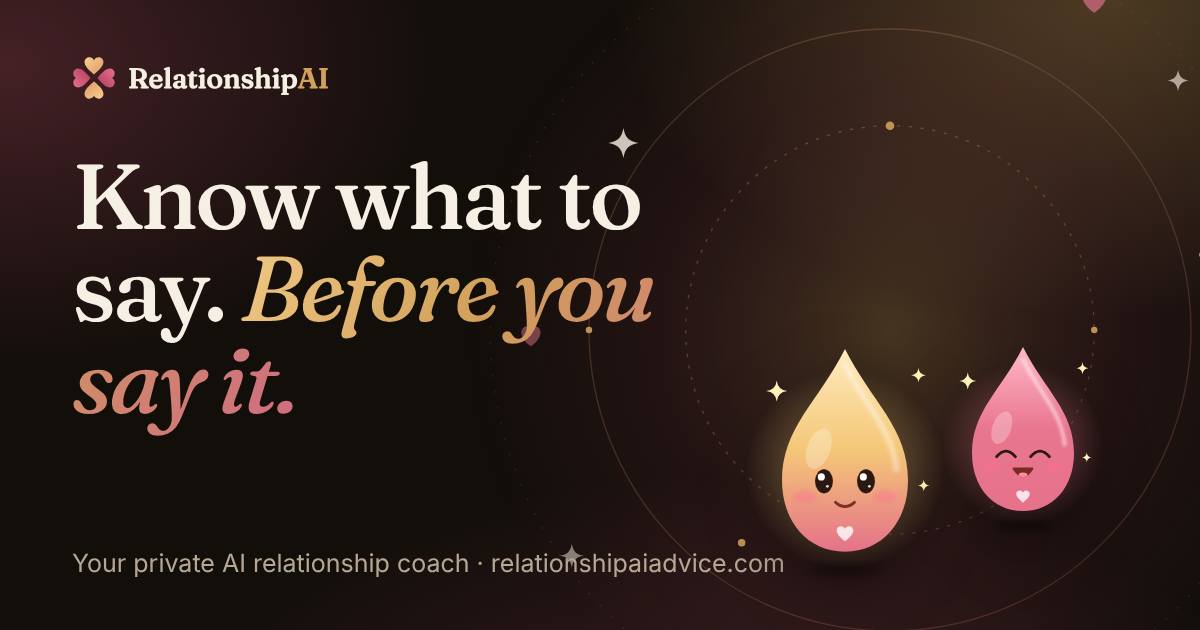
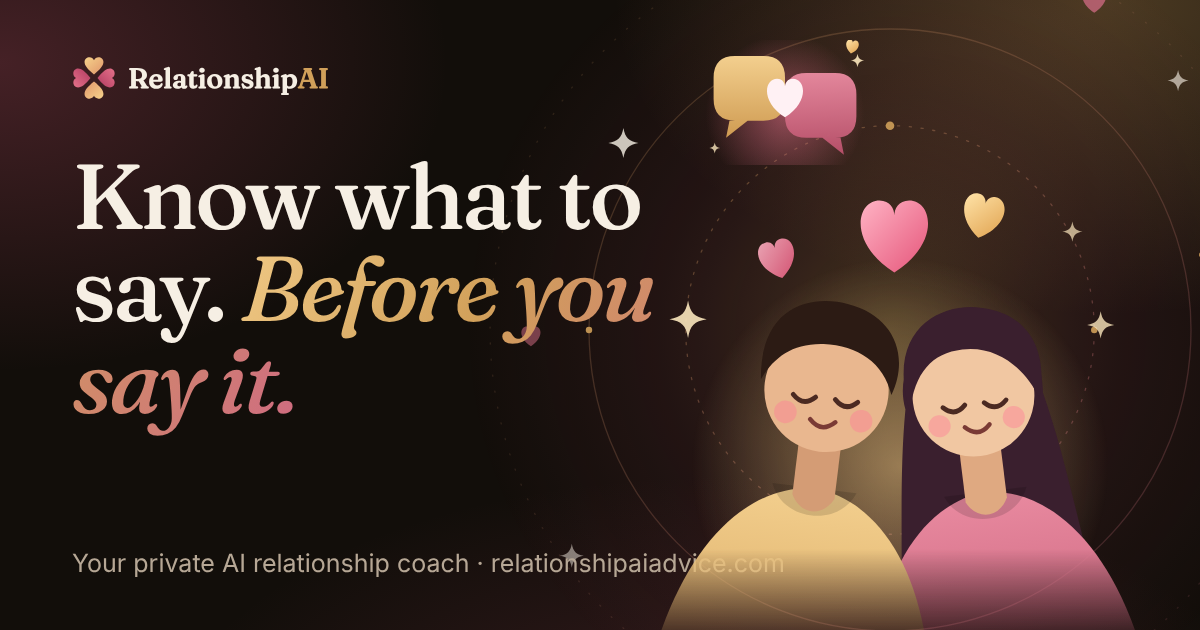
landing-couple-illustrations

diff --git a/landing-page/css/home.css b/landing-page/css/home.css
@@ -103,7 +103,7 @@ body.hx::after { /* film grain */
 .hx-err[hidden], .hx-done[hidden] { display: none; }
 
 /* hero stage */
-.hx-stage { position: relative; display: grid; place-items: center; min-height: 640px; }
+.hx-stage { position: relative; display: grid; place-items: center end; min-height: 680px; }
 .hx-orbit { position: absolute; inset: -6% -10%; width: 120%; max-width: none; opacity: .95; animation: hxSpin 140s linear infinite; z-index: 0; }
 @keyframes hxSpin { to { transform: rotate(360deg); } }
 .hx-phone {
@@ -115,7 +115,7 @@ body.hx::after { /* film grain */
 .hx-screen { position: relative; height: 100%; border-radius: 38px; overflow: hidden; background: linear-gradient(180deg, #1f1810, #17120c); display: flex; flex-direction: column; }
 .hx-notch { position: absolute; top: 9px; left: 50%; transform: translateX(-50%); width: 92px; height: 26px; border-radius: 20px; background: #070504; z-index: 3; }
 .hx-ph-head { padding: 46px 18px 12px; display: flex; align-items: center; gap: 11px; border-bottom: 1px solid var(--line); background: rgba(250, 235, 215, 0.03); }
-.hx-ph-head img { width: 38px; height: 38px; object-fit: contain; filter: drop-shadow(0 0 10px rgba(240, 201, 133, .5)); }
+.hx-ph-head img { width: 34px; height: 34px; object-fit: contain; }
 .hx-ph-head b { display: block; font-size: 15px; line-height: 1.2; }
 .hx-ph-head small { font-size: 12px; color: var(--green); display: flex; align-items: center; gap: 6px; }
 .hx-ph-head small::before { content: ""; width: 6px; height: 6px; border-radius: 50%; background: var(--green); }
@@ -141,16 +141,16 @@ body.hx::after { /* film grain */
   box-shadow: 0 24px 60px rgba(0, 0, 0, .45); animation: hxBob 6s ease-in-out infinite;
 }
 @keyframes hxBob { 50% { transform: translateY(-9px); } }
-.hx-float.f1 { left: -17%; top: 15%; width: 218px; animation-delay: -2s; }
-.hx-float.f2 { right: -8%; bottom: 15%; width: 212px; animation-delay: -4s; }
+.hx-float.f1 { left: 0; top: 4%; width: 218px; animation-delay: -2s; }
+.hx-float.f2 { left: 12%; top: 38%; width: 212px; animation-delay: -4s; }
 .hx-float small { display: block; font-size: 11px; font-weight: 700; letter-spacing: .1em; text-transform: uppercase; color: var(--faint); margin-bottom: 8px; }
 .hx-risk { display: inline-flex; align-items: center; gap: 6px; padding: 4px 10px; border-radius: 999px; font-size: 12px; font-weight: 600; color: #ffb4a2; background: rgba(255, 120, 90, .12); border: 1px solid rgba(255, 120, 90, .35); margin: 8px 0; }
 .hx-ok { color: #cfe6b6; font-weight: 500; }
 .hx-float .meter { height: 6px; border-radius: 6px; background: linear-gradient(90deg, #8bab6f, #e6c25f 50%, #e5705a); position: relative; margin: 10px 0 2px; }
 .hx-float .meter::after { content: ""; position: absolute; top: -4px; left: 78%; width: 14px; height: 14px; border-radius: 50%; background: var(--text); box-shadow: 0 0 0 3px rgba(18, 14, 10, .8); }
 .hx-wisp { position: absolute; z-index: 4; pointer-events: none; filter: drop-shadow(0 18px 30px rgba(0, 0, 0, .5)); }
-.hx-wisp.w1 { width: 118px; left: 0; bottom: 4%; animation: hxBob 5.5s ease-in-out infinite; }
-.hx-wisp.w2 { width: 98px; right: 3%; top: 5%; animation: hxBob 6.5s ease-in-out infinite -3s; }
+.hx-wisp.w1 { width: 400px; left: -8%; bottom: -4%; animation: hxBob 6.5s ease-in-out infinite; -webkit-mask-image: linear-gradient(to bottom, #000 74%, transparent 100%); mask-image: linear-gradient(to bottom, #000 74%, transparent 100%); filter: none; }
+.hx-wisp.w2 { width: 150px; left: 22%; top: 33%; animation: hxBob 5.5s ease-in-out infinite -3s; }
 
 /* marquee */
 .hx-marquee { padding: 20px 0; border-block: 1px solid var(--line); background: rgba(250, 235, 215, .02); overflow: hidden; mask-image: linear-gradient(90deg, transparent, #000 10%, #000 90%, transparent); -webkit-mask-image: linear-gradient(90deg, transparent, #000 10%, #000 90%, transparent); }
@@ -225,8 +225,8 @@ body.hx::after { /* film grain */
 .vs-card.dim li { color: var(--muted); } .vs-card.dim li i { background: rgba(255, 120, 90, .14); color: #ff9c85; }
 .vs-card.win { border-color: rgba(209, 160, 90, .55); background: linear-gradient(160deg, rgba(209, 160, 90, .14), rgba(168, 69, 92, .12)); box-shadow: 0 30px 90px rgba(209, 160, 90, .12); }
 .vs-card.win li i { background: var(--grad); color: var(--ink); }
-.vs-card.win .duo { position: absolute; right: 22px; top: 18px; display: flex; }
-.vs-card.win .duo img { width: 58px; margin-left: -10px; filter: drop-shadow(0 8px 14px rgba(0, 0, 0, .35)); }
+.vs-card.win { overflow: hidden; }
+.vs-card.win .duo { position: absolute; right: -4px; bottom: -4px; width: 220px; opacity: .95; -webkit-mask-image: linear-gradient(to bottom, #000 60%, transparent 100%); mask-image: linear-gradient(to bottom, #000 60%, transparent 100%); }
 
 /* pricing */
 .hx-bill { display: inline-flex; padding: 5px; border-radius: 999px; background: rgba(250, 235, 215, .06); border: 1px solid var(--line); margin: 0 auto 40px; }
@@ -289,8 +289,9 @@ body.hx::after { /* film grain */
 .hx-final .hx-note { justify-content: center; position: relative; margin-top: 18px; }
 .hx-final .hx-done { margin-inline: auto; position: relative; }
 .hx-final .hx-err { position: relative; }
-.hx-final .wf { position: absolute; width: 130px; bottom: -6px; filter: drop-shadow(0 14px 24px rgba(0, 0, 0, .5)); animation: hxBob 6s ease-in-out infinite; }
-.hx-final .wf.l { left: 5%; } .hx-final .wf.r { right: 5%; animation-delay: -3s; }
+.hx-final .wf { position: absolute; bottom: -4px; animation: hxBob 6s ease-in-out infinite; }
+.hx-final .wf.l { -webkit-mask-image: linear-gradient(to bottom, #000 60%, transparent 100%); mask-image: linear-gradient(to bottom, #000 60%, transparent 100%); }
+.hx-final .wf.l { left: 1%; width: 210px; bottom: -62px; } .hx-final .wf.r { right: 4%; width: 160px; bottom: 30px; animation-delay: -3s; }
 
 /* footer */
 .hx-foot { padding: 54px 0 120px; text-align: center; color: var(--faint); font-size: 14px; }
@@ -307,7 +308,9 @@ body.hx::after { /* film grain */
   .hx-sub, .hx-hero .hx-form { margin-inline: auto; }
   .hx-note { justify-content: center; }
   .hx-stage { min-height: 660px; margin-top: 30px; }
-  .hx-float.f1 { left: 2%; } .hx-float.f2 { right: 2%; }
+  .hx-stage { place-items: center; }
+  .hx-float.f1 { left: 2%; top: 8%; } .hx-float.f2 { left: auto; right: 2%; top: auto; bottom: 20%; }
+  .hx-wisp.w1 { left: 4%; }
   .hx-price { grid-template-columns: 1fr; max-width: 520px; margin-inline: auto; }
   .pc.feat { transform: none; }
   #blog .post-grid { grid-template-columns: minmax(0, 1fr); }
@@ -332,16 +335,17 @@ body.hx::after { /* film grain */
   .hx-form { flex-direction: column; border-radius: 26px; padding: 8px; gap: 6px; }
   .hx-form input[type="email"] { width: 100%; text-align: center; padding: 14px 10px; }
   .hx-form .hx-btn { width: 100%; }
-  .hx-stage { min-height: 640px; }
+  .hx-stage { min-height: 860px; place-items: start center; padding-top: 44px; }
   .hx-orbit { inset: 6% -30%; width: 160%; }
   .hx-phone { width: 290px; height: 590px; }
   .hx-float.f1 { display: none; }
   .hx-float.f2 { display: none; }
-  .hx-wisp.w1 { width: 92px; left: -2%; } .hx-wisp.w2 { width: 78px; right: -2%; top: 0; }
+  .hx-wisp.w1 { width: 270px; left: 50%; bottom: -34px; animation: none; transform: translateX(-50%); }
+  .hx-wisp.w2 { width: 96px; right: 4%; left: auto; top: -14px; }
   .hx-tile { padding: 24px; min-height: 0; }
   .vs-card { padding: 28px 24px; }
-  .hx-final { padding: 64px 20px 140px; border-radius: 30px; }
-  .hx-final .wf { width: 86px; } .hx-final .wf.l { left: 4%; } .hx-final .wf.r { right: 4%; }
+  .hx-final { padding: 64px 20px 190px; border-radius: 30px; }
+  .hx-final .wf.l { width: 150px; left: 2%; } .hx-final .wf.r { width: 100px; right: 3%; bottom: 20px; }
   .hx-faq summary { font-size: 18px; padding: 18px 20px; } .hx-faq details p { padding: 0 20px 20px; }
 }
 @media (prefers-reduced-motion: reduce) {

diff --git a/landing-page/index.html b/landing-page/index.html
@@ -93,8 +93,8 @@
 
         <div class="hx-stage">
           <img class="hx-orbit" src="img/hx-orbit.svg" alt="" width="800" height="800" />
-          <img class="hx-wisp w1" src="img/wisp-gold.svg" alt="" width="118" height="142" />
-          <img class="hx-wisp w2" src="img/wisp-rose.svg" alt="" width="98" height="118" />
+          <img class="hx-wisp w1" src="img/couple-embrace.svg" alt="" width="368" height="324" />
+          <img class="hx-wisp w2" src="img/heart-bubbles.svg" alt="" width="130" height="95" />
 
           <div class="hx-float f1">
             <small>Message check</small>
@@ -106,7 +106,7 @@
           <div class="hx-phone" id="phone">
             <div class="hx-screen">
               <span class="hx-notch"></span>
-              <div class="hx-ph-head"><img src="img/wisp-heart.svg" alt="" width="38" height="38" /><div><b>RelationshipAI</b><small>Example conversations</small></div></div>
+              <div class="hx-ph-head"><img src="logo-mark.svg" alt="" width="38" height="38" /><div><b>RelationshipAI</b><small>Example conversations</small></div></div>
               <div class="hx-tabs" role="tablist" aria-label="Product preview">
                 <button type="button" class="on" role="tab" data-pan="coach">Coach Chat</button>
                 <button type="button" role="tab" data-pan="message">Message check</button>
@@ -141,10 +141,6 @@
             </div>
           </div>
 
-          <div class="hx-float f2">
-            <small>Remembered</small>
-            <div class="chips" style="gap:6px"><span>Sam</span><span>Work stress</span><span>Weekends</span></div>
-          </div>
         </div>
       </div>
     </section>
@@ -328,7 +324,7 @@
             </ul>
           </div>
           <div class="vs-card win">
-            <div class="duo"><img src="img/wisp-gold.svg" alt="" /><img src="img/wisp-rose.svg" alt="" /></div>
+            <img class="duo" src="img/couple-embrace.svg" alt="" />
             <h3>RelationshipAI</h3>
             <ul>
               <li><i>✓</i>Sees both sides</li>
@@ -635,8 +631,8 @@
     <section class="hx-sec" id="join" style="padding-top:20px">
       <div class="hx-wrap">
         <div class="hx-final hx-reveal">
-          <img class="wf l" src="img/wisp-gold.svg" alt="" width="130" height="156" />
-          <img class="wf r" src="img/wisp-rose.svg" alt="" width="130" height="156" />
+          <img class="wf l" src="img/couple-embrace.svg" alt="" width="368" height="324" />
+          <img class="wf r" src="img/heart-bubbles.svg" alt="" width="150" height="110" />
           <h2>Your next conversation can go <span class="hx-grad"><em>better.</em></span></h2>
           <p class="sub">Try Coach Chat, Message check and Partner Practice. Join the early access list and we'll write once, the day we open.</p>
           <form class="hx-form" id="join-form" data-source="final-inline" novalidate>
